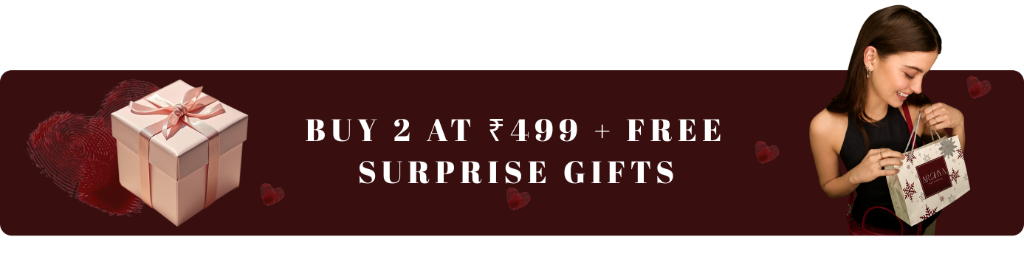
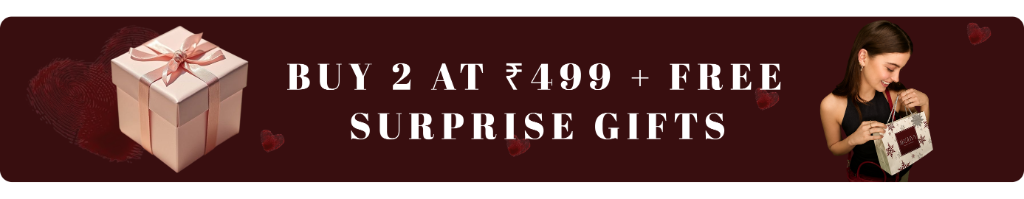
6th november commit

diff --git a/frontend/components/home/HomeCategoryBannerGrid.tsx b/frontend/components/home/HomeCategoryBannerGrid.tsx
@@ -12,6 +12,7 @@ interface BannerCard {
   labelPosition?: 'bottom-right' | 'bottom-left' | 'top-right' | 'bottom-center';
   showNativeLabel: boolean;
   alt: string;
+  objectPosition?: string;
 }
 
 const ANTI_TARNISH_CARDS: BannerCard[] = [
@@ -19,18 +20,19 @@ const ANTI_TARNISH_CARDS: BannerCard[] = [
     id: 'anti-ethnic',
     title: 'ETHNIC',
     href: '/products?category=AntiTarnish&subcategory=AmericanDiamonds',
-    imageSrc: '/images/anti_tarnish/banner_ethnic_ad.jpg',
+    imageSrc: '/images/anti_tarnish/banner_ethnic_ad.png',
     labelPosition: 'bottom-right',
-    showNativeLabel: true,
+    showNativeLabel: false, // Text "ETHNIC" is already embedded high-res in the image
     alt: 'Ethnic American Diamond Anti-Tarnish Jewelry Set',
   },
   {
     id: 'anti-kashmiri',
     title: 'KASHMIRI EARRINGS',
     href: '/products?category=AntiTarnish&subcategory=OxidizedEarrings',
-    imageSrc: '/images/anti_tarnish/banner_kashmiri_earrings.jpg',
+    imageSrc: '/images/anti_tarnish/banner_kashmiri_earrings.png',
     labelPosition: 'bottom-left',
-    showNativeLabel: true,
+    showNativeLabel: false, // Text "KASHMIRI EARRINGS" is already embedded high-res in the image
+    objectPosition: 'object-bottom',
     alt: 'Kashmiri Style Drop & Dangle Traditional Earrings',
   },
   {
@@ -126,7 +128,7 @@ export const HomeCategoryBannerGrid: React.FC = () => {
                   alt={card.alt}
                   fill
                   sizes="(max-width: 640px) 50vw, (max-width: 1024px) 50vw, 600px"
-                  className="object-cover object-center transition-transform duration-500 ease-out group-hover:scale-[1.02]"
+                  className={`object-cover ${card.objectPosition || 'object-center'} transition-transform duration-500 ease-out group-hover:scale-[1.02]`}
                 />
 
                 {/* Subtle Gradient Overlay */}
@@ -197,12 +199,12 @@ export const HomeCategoryBannerGrid: React.FC = () => {
       </div>
 
       {/* ═══════════════════════════════════════════════════════
-          SECTION 3: BUY 2 AT ₹ 499 + FREE SURPRISE GIFTS (Image 4)
+          SECTION 3: BUY 2 AT ₹ 499 + FREE SURPRISE GIFTS
           ═══════════════════════════════════════════════════════ */}
       <div className="pt-2 sm:pt-4">
         <Link
           href="/products?category=HotDeals"
-          className="group block relative w-full aspect-[1024/253] rounded-2xl sm:rounded-3xl overflow-hidden shadow-lg hover:shadow-2xl transition-all duration-300 border border-[#470813] bg-[#3b0d14] cursor-pointer"
+          className="group block relative w-full aspect-[1024/199] rounded-2xl sm:rounded-3xl overflow-hidden shadow-lg hover:shadow-2xl transition-all duration-300 border border-[#470813] bg-[#380e0f] cursor-pointer"
           title="Buy 2 at ₹499 + Free Surprise Gifts"
         >
           <Image

diff --git a/frontend/components/AntiTarnishBannerGrid.tsx b/frontend/components/AntiTarnishBannerGrid.tsx
@@ -16,6 +16,7 @@ interface CategoryCardItem {
   labelPosition: 'bottom-right' | 'bottom-left' | 'top-right' | 'top-left';
   showNativeLabel: boolean;
   alt: string;
+  objectPosition?: string;
 }
 
 const CATEGORY_CARDS: CategoryCardItem[] = [
@@ -23,18 +24,19 @@ const CATEGORY_CARDS: CategoryCardItem[] = [
     id: 'ethnic-card',
     label: 'ETHNIC',
     subcategory: 'American Diamonds',
-    imageSrc: '/images/anti_tarnish/banner_ethnic_ad.jpg',
+    imageSrc: '/images/anti_tarnish/banner_ethnic_ad.png',
     labelPosition: 'bottom-right',
-    showNativeLabel: true,
+    showNativeLabel: false, // Embedded high-res on image
     alt: 'Ethnic American Diamond Anti-Tarnish Necklace Set',
   },
   {
     id: 'kashmiri-card',
     label: 'KASHMIRI EARRINGS',
     subcategory: 'Oxidized Earrings',
-    imageSrc: '/images/anti_tarnish/banner_kashmiri_earrings.jpg',
+    imageSrc: '/images/anti_tarnish/banner_kashmiri_earrings.png',
     labelPosition: 'bottom-left',
-    showNativeLabel: true,
+    showNativeLabel: false, // Embedded high-res on image
+    objectPosition: 'object-bottom',
     alt: 'Kashmiri Style Drop & Dangle Traditional Earrings',
   },
   {
@@ -109,7 +111,7 @@ export const AntiTarnishBannerGrid: React.FC<AntiTarnishBannerGridProps> = ({
                 alt={card.alt}
                 fill
                 sizes="(max-width: 640px) 50vw, (max-width: 1024px) 50vw, 600px"
-                className="object-cover object-center transition-transform duration-500 ease-out group-hover:scale-[1.02]"
+                className={`object-cover ${card.objectPosition || 'object-center'} transition-transform duration-500 ease-out group-hover:scale-[1.02]`}
               />
 
               {/* Gradient Scrim for Contrast & Elegance */}

diff --git a/frontend/app/page.tsx b/frontend/app/page.tsx
@@ -48,6 +48,14 @@ const HOME_BANNER_SLIDES: BannerSlide[] = [
     title: 'Explore 925 Pure Silver',
   },
   {
+    src: '/images/banners/banner_buy_studs_199_3x.png',
+    srcSet: '/images/banners/banner_buy_studs_199.png 1024w, /images/banners/banner_buy_studs_199_2x.png 2048w, /images/banners/banner_buy_studs_199_3x.png 3072w',
+    alt: 'Buy Studs @ ₹199 - Proudly offering the best Prices & Quality in India',
+    bgColor: '#050720',
+    href: '/products?category=AntiTarnish&subcategory=ModernEarrings',
+    title: 'Buy Studs @ ₹199',
+  },
+  {
     src: '/images/banners/banner_anti_tarnish_shop_collection_3x.png',
     srcSet: '/images/banners/banner_anti_tarnish_shop_collection.png 1024w, /images/banners/banner_anti_tarnish_shop_collection_2x.png 2048w, /images/banners/banner_anti_tarnish_shop_collection_3x.png 3072w',
     alt: 'Shop the collection - Arghya Anti-Tarnish Fine Jewelry',

diff --git a/frontend/app/products/page.tsx b/frontend/app/products/page.tsx
@@ -41,6 +41,14 @@ const ANTI_TARNISH_BANNER_SLIDES: BannerSlide[] = [
     title: 'Click to explore Anti-Tarnish Collection',
   },
   {
+    src: '/images/banners/banner_buy_studs_199_3x.png',
+    srcSet: '/images/banners/banner_buy_studs_199.png 1024w, /images/banners/banner_buy_studs_199_2x.png 2048w, /images/banners/banner_buy_studs_199_3x.png 3072w',
+    alt: 'Buy Studs @ ₹199 - Proudly offering the best Prices & Quality in India',
+    bgColor: '#050720',
+    onClickScrollId: 'anti-tarnish-catalog-view',
+    title: 'Buy Studs @ ₹199',
+  },
+  {
     src: '/images/banners/banner_free_gifts_cat_3x.png',
     srcSet: '/images/banners/banner_free_gifts_cat.png 1024w, /images/banners/banner_free_gifts_cat_2x.png 2048w, /images/banners/banner_free_gifts_cat_3x.png 3072w',
     alt: 'Get Free Gifts on Order Above INR 299',
